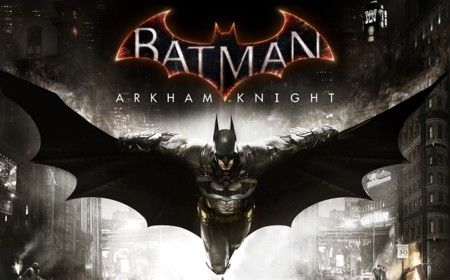
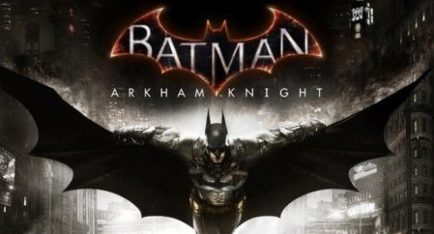
fotos definitivas y encuadradas

diff --git a/Práctica/principal2.css b/Práctica/principal2.css
@@ -92,26 +92,26 @@
     .contenedor .item1 {
       justify-self: stretch;
       align-self: stretch;
-      background-size: cover;
-      background-image: url("../Práctica/fotos/Begins.jpg")
+      background-size: 100% 100%;
+      background-image: url("../Práctica/fotos/justiceleague.jpg")
     }
     .contenedor .item2 {
         justify-self: stretch;
         align-self: stretch;
-        background-size: cover;
-        background-image: url("../Práctica/fotos/darkKnight.jpg")
+        background-size: 100% 100%;
+        background-image: url("../Práctica/fotos/caballerooscuro.jpg")
     }
     .contenedor .item3 {
         justify-self: stretch;
         align-self: stretch;
-        background-size: cover;
-        background-image: url("../Práctica/fotos/rises.jpg")
+        background-size: 100% 100%;
+        background-image: url("../Práctica/fotos/Batman.jpg")
     }
     .contenedor .item4 {
         justify-self: stretch;
         align-self: stretch;
-        background-size: cover;
-        background-image: url("../Práctica/fotos/BatmanCartel.jpg")
+        background-size: 100% 100%;
+        background-image: url("../Práctica/fotos/batmanlego.jpg")
     }
     .contenedor .item18 {
         grid-column-start: 1;
@@ -123,25 +123,25 @@
     .contenedor .item5 {
         justify-self: stretch;
         align-self: stretch;
-        background-size: cover;
+        background-size: 100% 100%;
         background-image: url("../Práctica/fotos/Gotham.jpg")
     }
     .contenedor .item6 {
         justify-self: stretch;
         align-self: stretch;
-        background-size: cover;
+        background-size: 100% 100%;
         background-image: url("../Práctica/fotos/animada.jpg")
     }
     .contenedor .item7 {
         justify-self: stretch;
         align-self: stretch;
-        background-size: cover;
+        background-size: 100% 100%;
         background-image: url("../Práctica/fotos/antigua.jpg")
     }
     .contenedor .item8 {
         justify-self: stretch;
         align-self: stretch;
-        background-size: cover;
+        background-size: 100% 100%;
         background-image: url("../Práctica/fotos/beyond.jpg")
     }
     .contenedor .item19 {
@@ -154,25 +154,25 @@
     .contenedor .item9 {
         justify-self: stretch;
         align-self: stretch;
-        background-size: cover;
-        background-image: url("../Práctica/fotos/anouno.jpg")
+        background-size: 100% 100%;
+        background-image: url("../Práctica/fotos/batman80.jpg")
     }
     .contenedor .item10 {
         justify-self: stretch;
         align-self: stretch;
-        background-size: cover;
-        background-image: url("../Práctica/fotos/bromaAsesina.jpeg")
+        background-size: 100% 100%;
+        background-image: url("../Práctica/fotos/bromaAsesina.jpg")
     }
     .contenedor .item11 {
         justify-self: stretch;
         align-self: stretch;
-        background-size: cover;
-        background-image: url("../Práctica/fotos/regreso.jpg")
+        background-size: 100% 100%;
+        background-image: url("../Práctica/fotos/yearone.jpg")
     }
     .contenedor .item12 {
         justify-self: stretch;
         align-self: stretch;
-        background-size: cover;
+        background-size: 100% 100%;
         background-image: url("../Práctica/fotos/muerteFamilia.jpg")
     }
     .contenedor .item20 {
@@ -185,26 +185,26 @@
     .contenedor .item13 {
         justify-self: stretch;
         align-self: stretch;
-        background-size: cover;
+        background-size: 100% 100%;
         background-image: url("../Práctica/fotos/arkhamOrigins.jpg")
     }
     .contenedor .item14 {
         justify-self: stretch;
         align-self: stretch;
-        background-size: cover;
-        background-image: url("../Práctica/fotos/arkhamAsylum.jpg")
+        background-size: 100% 100%;
+        background-image: url("../Práctica/fotos/arkhamasylum.jpg")
     }
     .contenedor .item15 {
         justify-self: stretch;
         align-self: stretch;
-        background-size: cover;
+        background-size: 100% 100%;
         background-image: url("../Práctica/fotos/arkhamCity.jpg")
     }
     .contenedor .item16 {
         justify-self: stretch;
         align-self: stretch;
-        background-size: cover;
-        background-image: url("../Práctica/fotos/arkhamKnight.jpg")
+        background-size: 100% 100%;
+        background-image: url("../Práctica/fotos/arkhamknight.jpg")
     }
 
   #burger-checkbox {

diff --git a/Práctica/prueba.css b/Práctica/prueba.css
@@ -41,15 +41,20 @@
   }
   #myVideo {
     position: absolute;
-    /*height: 100vh;*/
+    /*height: 100vh;
     opacity: .99;
     top: 0;
     left: 0;
     max-width: 100%; 
-    max-height: 100%;
-    background-size: cover;
-    height: auto;
+    max-height: 100%;*/
+    /*background-size: 100% 100%;*/
+    /*height: auto;
     width: auto;
+    z-index: -1;*/
+    height: 100%;
+    /*width: 100%;*/
+    margin: auto 0, 0;
+    text-align: center;
     z-index: -1;
   }
   .button1 {
@@ -131,7 +136,7 @@
     min-height: 150px;
     font-size: 16px;
     margin: 2.5%;
-    background-size: cover;
+    background-size: 100% 100%;
 }
 .row > div:hover {
     box-shadow: 0px 0px 10px 10px white;
@@ -145,7 +150,7 @@
     background-image: url("../Práctica/fotos/Begins.jpg")  
 }
 .video2{
-    background-image: url("../Práctica/fotos/darkKnight.jpg")
+    background-image: url("../Práctica/fotos/caballerooscuro.jpg")
 } 
 .video3{
     background-image: url("../Práctica/fotos/BatmanSuperman.jpg")
